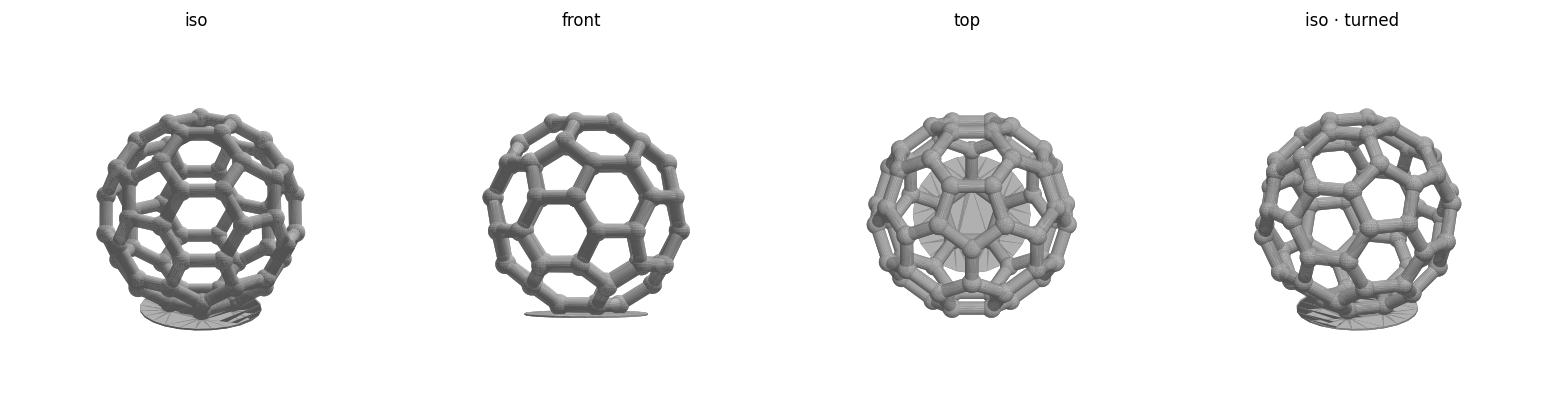
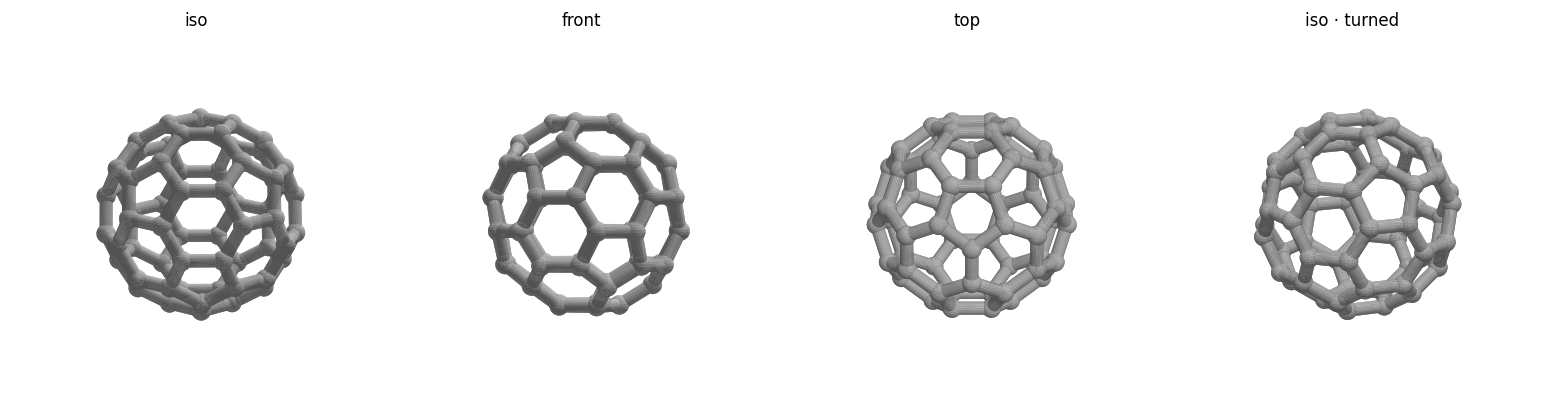
Drop modeled-in brims: slicer brim is the way from now on
Peeling the fused modeled-in brim damaged the structure, so both
print-ready buckyballs are now totally symmetric with no modeled-in
adhesion geometry:

- ball-and-stick: brim_d=0 default (5 bottom balls kiss the plate);
  brim disc guarded behind brim_d>0
- voronoi: FLAT=0/FOOT_D=0/BRIM_D=0 — no flatten cut, no foot, no brim;
  web rests on its lowest nodes (now 73.2 mm tall, nothing trimmed)

Adhesion comes from a Bambu Studio slicer brim instead (outer_only,
8 mm, 0.1 mm brim-object gap — grips the plate, barely kisses the part,
snaps off harmlessly). New tools/bambu_print_3mf.py drives the
BambuStudio CLI to bake those settings (+ A1/PLA presets, textured PEI,
tree supports) into a ready-to-slice buckyball_print.3mf per variant;
it verifies the embedded settings on readback. Both projects pass
verify_3mf with exact STL round-trips.

diff --git a/tools/bambu_print_3mf.py b/tools/bambu_print_3mf.py
@@ -1,0 +1,101 @@
+#!/usr/bin/env python3
+"""Build a print-ready Bambu Studio PROJECT .3mf from a plain mesh .3mf/.stl.
+
+    python ../tools/bambu_print_3mf.py <mesh.3mf|mesh.stl> <out_print.3mf> [key=value ...]
+
+Drives the Bambu Studio CLI: loads the mesh, the printer/filament presets below, and a
+user process preset inheriting PROCESS with the OVERRIDES applied — so the exported
+project opens in Bambu Studio with everything pre-set (slicer brim, tree supports, ...).
+Extra `key=value` args are merged into OVERRIDES (e.g. `brim_width=5`).
+
+Defaults match the brim-free symmetric buckyballs: a gapped outer slicer brim instead of
+a modeled-in one, and tree supports. brim_type must be one of Bambu's internal tokens:
+auto_brim, outer_only, inner_only, outer_and_inner, brim_ears, no_brim.
+
+The exported project is then patched to select BED_TYPE (no CLI flag for it), and the
+embedded settings are read back and printed for verification.
+"""
+import json, subprocess, sys, time, zipfile, tempfile, os, shutil
+
+BAMBU    = "/Applications/BambuStudio.app/Contents/MacOS/BambuStudio"
+PROFILES = "/Applications/BambuStudio.app/Contents/Resources/profiles/BBL"
+PRINTER  = "Bambu Lab A1 0.4 nozzle"
+FILAMENT = "Bambu PLA Basic @BBL A1"
+PROCESS  = "0.20mm Standard @BBL A1"
+BED_TYPE = "Textured PEI Plate"
+OVERRIDES = {                       # process keys applied on top of PROCESS
+    "brim_type": "outer_only",      # slicer brim around the footprint
+    "brim_width": "8",
+    "brim_object_gap": "0.1",       # the weak-bond release gap
+    "enable_support": "1",
+    "support_type": "tree(auto)",
+}
+
+def main():
+    if len(sys.argv) < 3:
+        sys.exit(__doc__)
+    mesh, out = os.path.abspath(sys.argv[1]), os.path.abspath(sys.argv[2])
+    overrides = dict(OVERRIDES)
+    for kv in sys.argv[3:]:
+        k, _, v = kv.partition("=")
+        overrides[k] = v
+
+    # user process preset: inherit the system profile, override only our keys
+    preset = {
+        "type": "process", "from": "User",
+        "name": f"{PROCESS} - {os.path.splitext(os.path.basename(out))[0]}",
+        "inherits": PROCESS,
+        "compatible_printers": [PRINTER],
+        **overrides,
+    }
+    with tempfile.NamedTemporaryFile("w", suffix=".json", delete=False) as f:
+        json.dump(preset, f, indent=1); preset_path = f.name
+
+    if os.path.exists(out):
+        os.remove(out)
+    cmd = [BAMBU, mesh,
+           "--load-settings", f"{PROFILES}/machine/{PRINTER}.json;{preset_path}",
+           "--load-filaments", f"{PROFILES}/filament/{FILAMENT}.json",
+           "--arrange", "1",
+           "--export-3mf", out]
+    # run from a scratch dir: the CLI drops a result.json status file into its cwd
+    scratch = tempfile.mkdtemp()
+    r = subprocess.run(cmd, capture_output=True, text=True, cwd=scratch)
+    shutil.rmtree(scratch, ignore_errors=True)
+    err = [l for l in (r.stdout + r.stderr).splitlines() if "error" in l.lower()]
+    # the CLI can finish writing just after exit — wait for the file to land
+    for _ in range(50):
+        if os.path.exists(out) and os.path.getsize(out) > 0:
+            break
+        time.sleep(0.2)
+    os.remove(preset_path)
+    if err or not os.path.exists(out):
+        sys.exit("BambuStudio CLI failed:\n" + "\n".join(err or [r.stdout[-2000:]]))
+
+    # patch the selected plate type (no CLI flag), rewriting just that zip member
+    cfg_name = "Metadata/project_settings.config"
+    tmp = out + ".tmp"
+    with zipfile.ZipFile(out) as zin, zipfile.ZipFile(tmp, "w", zipfile.ZIP_DEFLATED) as zout:
+        for item in zin.infolist():
+            data = zin.read(item.filename)
+            if item.filename == cfg_name:
+                cfg = json.loads(data)
+                cfg["curr_bed_type"] = BED_TYPE
+                data = json.dumps(cfg, indent=4).encode()
+            zout.writestr(item, data)
+    shutil.move(tmp, out)
+
+    # read back and report what the project will open with
+    with zipfile.ZipFile(out) as z:
+        cfg = json.loads(z.read(cfg_name))
+    print(f"wrote {out}  ({os.path.getsize(out)} bytes)")
+    for k in ["printer_settings_id", "filament_settings_id", "print_settings_id",
+              "curr_bed_type", "layer_height", *overrides]:
+        print(f"   {k} = {cfg.get(k)}")
+    bad = [k for k, v in overrides.items() if str(cfg.get(k)) != v]
+    if bad:
+        sys.exit(f"FAIL — overrides not applied: {bad}")
+    print("   => all overrides verified in the project")
+
+if __name__ == "__main__":
+    main()

diff --git a/buckyball/voronoi/gen.py b/buckyball/voronoi/gen.py
@@ -17,10 +17,10 @@ sc      = DIAM/50.0          # scale relative to the original 50 mm design
 R_OUT   = DIAM/2             # circumradius (mm)
 STRUT_D = 1.6*sc            # strut diameter — scales with size (stays equally delicate)
 NODE_D  = 2.2*sc            # node diameter
-FLAT    = 1.5*sc            # mm flattened off the bottom for a base
-FOOT_D  = 18.0              # small flat foot diameter (mm); 0 = none. Snip off after print.
+FLAT    = 0.0              # mm flattened off the bottom; 0 = none → fully symmetric
+FOOT_D  = 0.0              # small flat foot diameter (mm); 0 = none. Needs FLAT>0 (trims it flush).
 FOOT_H  = 0.6              # foot thickness (mm) — a few layers
-BRIM_D  = 45.0             # wide modeled-in brim diameter (mm); 0 = none. Plate adhesion.
+BRIM_D  = 0.0              # wide modeled-in brim diameter (mm); 0 = none → add a brim in Bambu Studio
 BRIM_H  = 0.4              # brim thickness (mm) — ~2 layers; peels off like a slicer brim
 SEED    = np.array([0.34, 0.13, 0.93])   # one generic seed (defines the cell pattern)
 
@@ -98,14 +98,19 @@ zbot=mesh.bounds[0][2]; zcut=zbot+FLAT
 # small flat foot: a disc that reaches UP into the ball to engulf the lowest struts
 # (so it fuses into ONE body), then trimmed flush by the flatten below. Snip off after.
 if FOOT_D>0:
+    assert FLAT>0, "FOOT_D needs FLAT>0 (the flatten trims the foot flush)"
     z0, z1 = zbot-2.0, zcut+FOOT_H
     foot=trimesh.creation.cylinder(radius=FOOT_D/2, height=z1-z0, sections=64)
     foot.apply_translation([0,0,(z0+z1)/2])
     mesh=trimesh.boolean.union([mesh,foot])
-# flatten the bottom flush and drop it to z=0
-box=trimesh.creation.box(extents=[400,400,400]); box.apply_translation([0,0,zcut-200])
-mesh=trimesh.boolean.difference([mesh,box])
-mesh.apply_translation([0,0,-zcut])
+if FLAT>0:
+    # flatten the bottom flush and drop it to z=0
+    box=trimesh.creation.box(extents=[400,400,400]); box.apply_translation([0,0,zcut-200])
+    mesh=trimesh.boolean.difference([mesh,box])
+    mesh.apply_translation([0,0,-zcut])
+else:
+    # nothing cut anywhere — rest the lowest nodes on the plate (fully symmetric)
+    mesh.apply_translation([0,0,-zbot])
 # wide thin brim fused under the base (the foot alone detached mid-print): welds to
 # the foot and the flattened lowest struts; peel/snip off after printing like a brim.
 if BRIM_D>0:

diff --git a/buckyball/voronoi/PRINT_NOTES.md b/buckyball/voronoi/PRINT_NOTES.md
@@ -10,30 +10,30 @@ Each spherical-Voronoi edge is a thin rounded strut projected onto the C60 surfa
 ## At a glance
 | | |
 |---|---|
-| Outer size | ~77 × 80 × 71 mm (75 mm across the vertices) |
+| Outer size | ~77 × 80 × 73 mm (75 mm across the vertices) |
 | Pattern | 60 cells, 150 struts, 2.4 mm strut diameter |
-| Symmetry | full icosahedral, aligned to the C60 |
-| Footprint | ~1588 mm² — solid (modeled-in brim + flat foot fused under the base) |
+| Symmetry | full icosahedral, aligned to the C60 — **nothing cut or fused anywhere** |
+| Footprint | ~0 mm² (rests on its lowest nodes) — **enable a brim in Bambu Studio** |
 
-A thin **flat foot** (`FOOT_D` ≈ 18 mm, `FOOT_H` 0.6 mm) plus a wide **modeled-in brim**
-(`BRIM_D` 45 mm, `BRIM_H` 0.4 mm ≈ 2 layers) are fused under the bottom — the foot alone
-detached mid-print once. **Peel the brim and snip/sand the foot off** after printing.
-Set `FOOT_D=0` / `BRIM_D=0` for none.
+**No modeled-in brim, foot, or flattening** (`FLAT=0`, `FOOT_D=0`, `BRIM_D=0`): peeling
+the modeled-in brim off damaged the delicate web. Use a **slicer brim in Bambu Studio**
+instead (see settings below) — it releases much more gently. The old base options are
+still in `gen.py` (set `FLAT`/`FOOT_D`/`BRIM_D` > 0) if ever wanted again.
 
-Size is set by `DIAM` at the top of `gen.py` (`python gen.py 75`); strut/node/flat all
-scale with it, so the footprint grows ~with size².
+Size is set by `DIAM` at the top of `gen.py` (`python gen.py 75`); strut and node
+diameters scale with it, so it stays equally delicate.
 
 ## How it's made (different from the OpenSCAD models)
 This shape needs computational geometry, so its **source is `gen.py`** (Python:
 `scipy` Voronoi + `trimesh`/`manifold3d` for fast watertight booleans), which writes
 `buckyball.stl` **and** `buckyball.3mf` directly. To regenerate / re-tune:
 ```bash
-/opt/anaconda3/bin/python gen.py [flat_mm]      # e.g. gen.py 1.5
+/opt/anaconda3/bin/python gen.py [diam_mm]      # e.g. gen.py 75
 ./check.sh
 ```
 Knobs at the top of `gen.py`: `STRUT_D` (delicacy), `SEED` (changes the cell pattern),
-`FLAT` (base). For a **finer** web, replicate 2 seeds (≈120 cells); for **coarser**, put
-the seed on a symmetry axis.
+`FLAT`/`FOOT_D`/`BRIM_D` (modeled-in base — all 0 now). For a **finer** web, replicate
+2 seeds (≈120 cells); for **coarser**, put the seed on a symmetry axis.
 
 ## Before printing — run the safety check
 ```bash
@@ -41,17 +41,25 @@ the seed on a symmetry axis.
 ```
 
 ## Slicer settings (Bambu Studio, Bambu Lab A1) — this one needs support
+**Shortcut: open `buckyball_print.3mf`** — a ready-made Bambu project with everything
+below already set (A1 0.4 nozzle, Bambu PLA Basic, 0.20 mm Standard, textured PEI,
+outer brim 8 mm with 0.1 mm gap, tree supports). Regenerate it with
+`/opt/anaconda3/bin/python ../../tools/bambu_print_3mf.py buckyball.3mf buckyball_print.3mf`.
+Opening the plain `buckyball.3mf` instead needs the settings set by hand:
+
 - **Filament:** black PLA. **Layer height:** 0.16–0.20 mm. **Walls:** the 1.6 mm struts
   print as a few perimeters — no infill needed.
 - **Supports: ON, tree (auto).** A thin spherical web has overhangs all over the lower
   hemisphere; tree supports are needed for a clean result. The open cells make them
   reachable for removal.
-- **Brim: built into the model.** A 45 mm × 0.4 mm disc is fused under the base (the
-  18 mm foot alone detached mid-print) — no slicer brim needed on top of it.
+- **Brim: enable in the slicer** — *Others → Brim type: outer brim*, width ~5 mm,
+  **brim–object gap 0.1 mm** (the gap is what makes it release without tearing the web;
+  the modeled-in brim had none, which is why peeling it hurt the structure).
 - **Supports are still required** for the upper overhangs (a hollow sphere arcs over its
   open cells) — the brim fixes the *base*, not the floating struts. Bambu will warn about
   "floating regions"; that's expected — enable tree supports and slice.
-- Drop on the plate as-is; peel the brim and snip the foot off after printing.
+- Drop on the plate as-is; the slicer brim pops free after printing (run a blade around
+  it if it resists — don't pull upward on the web).
 
 ## Safety checklist
 **Operation**
@@ -61,8 +69,8 @@ the seed on a symmetry axis.
 
 **Mesh / design**
 - [ ] `check.sh` reports watertight ✓ and VALID
-- [ ] Tree supports enabled (the brim is already in the model)
+- [ ] Tree supports enabled **and** slicer brim enabled (the model has no base of its own)
 
-> The pre-brim Bambu Studio project (with its slicer settings) is kept as
+> An older Bambu Studio project (with its slicer settings) is kept as
 > `buckyball_bambu_project.3mf` — open it to recover the settings, but slice the
 > regenerated `buckyball.3mf`.

diff --git a/buckyball/ball-and-stick/PRINT_NOTES.md b/buckyball/ball-and-stick/PRINT_NOTES.md
@@ -1,10 +1,11 @@
 # Buckyball (C60) — pure ball-and-stick — print notes
 
 The **perfectly symmetric** one: 60 sphere joints + 90 cylinder struts (12 pentagons +
-20 hexagons stay see-through), with **nothing flattened or clipped anywhere**. It is held
-on the plate only by a thin **modeled-in brim** the 5 bottom balls sink 0.45 mm into.
-Snip/peel the brim off after printing and sand the 5 tiny witness dots — the ball is
-then fully icosahedrally symmetric, like a molecular model.
+20 hexagons stay see-through), with **nothing flattened, clipped, or fused anywhere** —
+fully icosahedrally symmetric as printed, like a molecular model. It rests on the plate
+on the 5 bottom balls of a pentagon face; adhesion comes from a **slicer brim added in
+Bambu Studio** (the modeled-in brim damaged the structure when peeled, so it's gone —
+`brim_d=0` in the scad; set it `>0` to bring it back).
 
 ![preview](buckyball_preview.png)
 
@@ -13,8 +14,8 @@ then fully icosahedrally symmetric, like a molecular model.
 |---|---|
 | Outer size | ~81 × 80 × 78 mm (75 mm across the vertices) |
 | Strut / ball | 5.0 mm / 7.5 mm |
-| Seats on | a Ø48 × 0.6 mm brim disc (≈1789 mm² footprint) — snip off after |
-| Symmetry | full icosahedral once the brim is removed |
+| Seats on | the 5 bottom balls of a pentagon face (~point contact) — **slicer brim required** |
+| Symmetry | full icosahedral, as printed |
 
 ## Before printing — run the safety check
 ```bash
@@ -23,18 +24,26 @@ then fully icosahedrally symmetric, like a molecular model.
 Then read the settings below. Do **not** print if `check.sh` reports a mesh FAIL.
 
 ## Slicer settings (Bambu Studio, Bambu Lab A1)
+**Shortcut: open `buckyball_print.3mf`** — a ready-made Bambu project with everything
+below already set (A1 0.4 nozzle, Bambu PLA Basic, 0.20 mm Standard, textured PEI,
+outer brim 8 mm with 0.1 mm gap, tree supports). Regenerate it with
+`/opt/anaconda3/bin/python ../../tools/bambu_print_3mf.py buckyball.3mf buckyball_print.3mf`.
+Opening the plain `buckyball.3mf` instead needs the settings set by hand:
+
 - **Filament:** PLA. **Layer height:** 0.2 mm. **Walls:** 2–3, no infill needed
   (struts print as perimeters).
-- **Brim: built into the model.** The Ø48 mm disc *is* the brim — don't add another.
+- **Brim: enable in the slicer** — *Others → Brim type: outer brim*, width ~8 mm,
+  **brim–object gap 0.1 mm**. The 5 bottom balls each touch the plate in a ~1 mm dot;
+  the gapped brim anchors those dots and releases cleanly instead of tearing.
 - **Supports: ON, tree (auto).** With no flat anywhere, the lower-hemisphere struts and
   ball undersides all overhang; tree supports are required. The open faces let you reach
   in to remove them.
-- Drop on the plate as-is; the brim disc sits at z = 0.
+- Drop on the plate as-is; the bottom balls sit at z = 0.
 
 ## After printing
-1. Peel/snip the brim disc off (it is only ~3 layers thick — flush cutters at the 5
-   fused patches, then it pops free).
-2. Sand the 5 small witness dots on the bottom balls smooth.
+1. Pop the slicer brim off (the 0.1 mm gap means it isn't fused to the balls — run a
+   blade around it if it resists; don't pull upward on the cage).
+2. If the ball contact dots show any brim residue, a light sanding restores them.
 
 ## Safety checklist
 **Operation**
@@ -47,7 +56,7 @@ Then read the settings below. Do **not** print if `check.sh` reports a mesh FAIL
 **Mesh / design**
 - [ ] `check.sh` reports watertight ✓ and VALID
 - [ ] Bounding box matches the intended size (~80 mm)
-- [ ] Tree supports enabled (nothing but the brim touches the plate)
+- [ ] Tree supports **and** slicer brim enabled (only 5 tiny ball dots touch the plate)
 
 ## Re-tuning / regenerating
 Edit the parameters at the top of `buckyball.scad` (`diameter`, `strut_d`, `joint_d`,

diff --git a/buckyball/README.md b/buckyball/README.md
@@ -7,13 +7,17 @@ before printing.
 
 The exploration converged on two print-ready siblings: **`voronoi/`** — a delicate,
 fully-symmetric Voronoi shell — and **`ball-and-stick/`** — a pure ball-and-stick C60
-with zero flats. Both are held to the plate by a thin **modeled-in brim** (snip it off
-after printing).
+with zero flats. Both are now **totally symmetric with no modeled-in brim** — peeling
+the modeled-in brim damaged the structure, so adhesion comes from a **slicer brim added
+in Bambu Studio** (outer brim, 0.1 mm brim–object gap; see each `PRINT_NOTES.md`). The
+modeled-in options remain as parameters (`brim_d` / `FLAT`,`FOOT_D`,`BRIM_D` > 0).
+Both folders also carry a ready-to-slice **`buckyball_print.3mf`** Bambu project
+(generated by `../tools/bambu_print_3mf.py`) with those slicer settings pre-set.
 
 | variant | what it is | symmetry | footprint | mesh |
 |---|---|---|---|---|
-| **`voronoi/`** ⭐ | delicate icosahedral Voronoi web on the C60 form (75 mm), foot + brim | full icosahedral | 1588 mm² (brim) | watertight ✓ |
-| **`ball-and-stick/`** ⭐ | pure spheres + struts, nothing flattened, snip-off brim (75 mm) | full icosahedral (brim off) | 1789 mm² (brim) | watertight ✓ |
+| **`voronoi/`** ⭐ | delicate icosahedral Voronoi web on the C60 form (75 mm), no base | full icosahedral | ~0 mm² (slicer brim) | watertight ✓ |
+| **`ball-and-stick/`** ⭐ | pure spheres + struts, nothing flattened or fused (75 mm) | full icosahedral | ~0 mm² (slicer brim) | watertight ✓ |
 | `solid/` | solid faceted soccer-ball, engraved seams | full icosahedral | flat face | 4 non-manifold seams* |
 | `edges-only/` | square-beam edge frame, **no node spheres**, pentagon-seated | 5-fold | 387 mm² | watertight ✓ |
 | `symmetric-flats/` | round-strut cage, all 12 pentagons flattened equally | full icosahedral | 203 mm² | watertight ✓ |

diff --git a/CLAUDE.md b/CLAUDE.md
@@ -15,6 +15,10 @@ A workshop for designing 3D-printable objects as **parametric OpenSCAD models**,
     stl_to_3mf.py            STL -> minimal 3MF Core package
     verify_3mf.py            validate a 3MF (structure + mesh integrity)
     preflight.py             pre-print safety check (verify + size/footprint + reminders)
+    bambu_print_3mf.py       mesh 3MF/STL -> print-ready Bambu PROJECT 3mf via the
+                             BambuStudio CLI (A1 + PLA presets, slicer brim, tree supports
+                             pre-set; key=value args override; reads back + verifies the
+                             embedded settings — still verify the mesh with verify_3mf.py)
   <design>/                  one folder per object, e.g. buckyball/, xyz_calibration_cube/
     <name>.scad              parametric source (edit this)
     <name>.stl / .3mf / _preview.png   generated artifacts
@@ -62,4 +66,5 @@ Then open the `.3mf` in Bambu Studio (`PRINT_NOTES.md` has this design's slicer 
 - **Adding a new design:** make a `<design>/` folder with `<name>.scad`, then copy a `check.sh` (edit the one `<name>` argument) and a `PRINT_NOTES.md` from an existing design as templates. Run the routine from inside the folder.
 - Keep changes scoped to one design + the shared `tools/`. When generalizing a shared script, preserve its behavior for the other designs that already use it (both designs' `check.sh` are the regression test — run them).
 - A design's `<name>.stl`, `<name>_preview.png`, and `<name>.3mf` are generated artifacts — regenerate them from the `.scad`; don't hand-edit. (Exception: a `.3mf` re-saved by Bambu Studio is a print-ready project — keep it, don't regenerate over it.)
-- This directory is not a git repository.
+- **Plate adhesion: use a gapped slicer brim, never a modeled-in one.** A brim modeled into the mesh is welded to the part and tears delicate structures on removal. Keep models fully symmetric (no flats/feet/brims; point contact is fine) and generate a print-ready project with `tools/bambu_print_3mf.py` (outer brim 8 mm, 0.1 mm brim–object gap, tree supports pre-set).
+- This directory is a git repository (`github.com:wangleiphy/3d-printer`); generated artifacts are committed alongside sources.